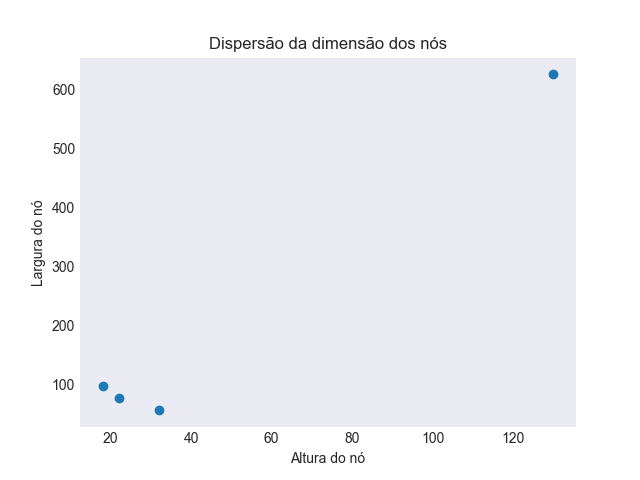
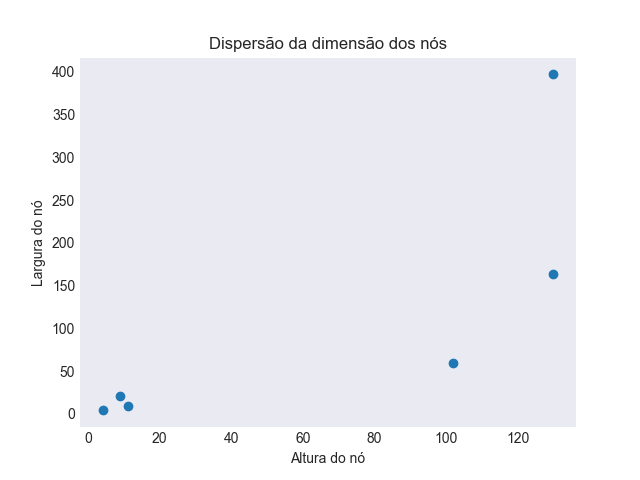
adicionado funcao faz tudo que faz tudo , inclusive o tratamendo de excecao

diff --git a/teste.py b/teste.py
@@ -1,6 +1,5 @@
 import cv2 as cv
-import intermed
-
+import faz_tudo
 import os
 
 f1 = cv.imread('fundo1.png')
@@ -63,30 +62,37 @@ mylist = os.listdir('rolls3/')
 print(mylist)
 
 for nome_arquivo in mylist:
+
     img = cv.imread('rolls3/'+ nome_arquivo)
-    img2 = img[x:x + w, y:y + h]
+    # img2 = img[x:x + w, y:y + h]
+    # try :
+    #     [numero_de_nos,tipo_norma,colorida_bounding_box,pb,g_scatter,g_hist,area_maior_no] = intermed.intermediario(img2)
+    #     cv.imshow('pista', colorida_bounding_box)
+    #     cv.waitKey(1)
+    #
+    # except:
+    #     numero_de_nos = 0
+    #     tipo_norma = 'A'
+    #     area_maior_no = 0
+    #
+    #     cv.imshow('pista', img2)
+    #     cv.waitKey(1)
+    #
+    #
+    #
+    # if(area_maior_no<1000):
+    #     #print("capa do tipo "+ tipo_norma + " com um total de " + str(numero_de_nos)+" nós")
+    #     print("tem chapa do tipo " + tipo_norma + ", tamanho do maior nó = " +  str(area_maior_no))
+    #     cv.imshow('com capa', img2)
+    #     cv.waitKey(0)
 
-    try :
-        [numero_de_nos,tipo_norma,colorida_bounding_box,pb,g_scatter,g_hist,area_maior_no] = intermed.intermediario(img2)
-        cv.imshow('pista', colorida_bounding_box)
-        cv.waitKey(1)
+    [numero_de_nos,tipo_norma,colorida_bounding_box,pb,g_scatter,g_hist,is_chapa] = faz_tudo.fazTudo(img,x,y,w,h)
+    cv.imshow('pista',colorida_bounding_box)
+    cv.waitKey(1)
 
-    except:
-        numero_de_nos = 0
-        tipo_norma = 'A'
-        area_maior_no = 0
-
-        cv.imshow('pista', img2)
-        cv.waitKey(1)
-
-
-
-    if(area_maior_no<1000):
-        #print("capa do tipo "+ tipo_norma + " com um total de " + str(numero_de_nos)+" nós")
-        print("tem chapa do tipo " + tipo_norma + ", tamanho do maior nó = " +  str(area_maior_no))
-        cv.imshow('com capa', img2)
-        cv.waitKey(0)
-
-
-
-cv.waitKey(0)
+    if(is_chapa):
+        cv.imshow('chapa',colorida_bounding_box)
+        cv.imshow('pb',pb)
+        cv.imshow('histograma',g_hist)
+        cv.imshow('scatter',g_scatter)
+        cv.waitKey(100)

diff --git a/principal.py b/principal.py
@@ -1,20 +1,13 @@
 import cv2 as cv
-import openpyxl
-import intermed
+import faz_tudo
 
-
-
-limiar_area = 10000
-
+limiar_area = 1000
 
 # regioes de corte
 x = 350
 y = 0
 w = 150
 h = 625
-
-
-
 
 webcam = cv.VideoCapture(0)
 tempo_entre_frames = 3
@@ -24,27 +17,16 @@ if webcam.isOpened():
 
 while validacao: # aqui ocorre toda execução do programa principal
         validacao,frame = webcam.read() # imagens da webcam são colocadas na variável frame, a cada instante, gerando o vídeo
-        frame = frame[x:x + w, y:y + h]
-        [numero_de_nos, tipo_norma, colorida_bounding_box, pb, g_scatter, g_hist,area_maior_no] = intermed.intermediario(frame)
-        # if area_maior_no > limiar_area:
-        #         cv.imshow('Identificacao', colorida_bounding_box)
-        #         cv.waitKey(1)
-        #         cv.imshow('pb', pb)
-        #         cv.waitKey(1)
-        #         cv.imshow('Dispersao', g_scatter)
-        #         cv.waitKey(1)
-        #         cv.imshow('Histograma', g_hist)
-        #         cv.waitKey(1)
 
-        cv.imshow('Identificacao',colorida_bounding_box)
-        cv.waitKey(1)
-        cv.imshow('pb',pb)
-        cv.waitKey(1)
-        # cv.imshow('Dispersao',g_scatter)
-        # cv.waitKey(1)
-        # cv.imshow('Histograma',g_hist)
-
+        [numero_de_nos,tipo_norma,colorida_bounding_box,pb,g_scatter,g_hist,is_chapa] = faz_tudo.fazTudo(frame,x,y,w,h)
+        cv.imshow('pista',colorida_bounding_box)
         cv.waitKey(1)
 
+        if (is_chapa):
+                cv.imshow('chapa',colorida_bounding_box)
+                cv.imshow('pb',pb)
+                cv.imshow('histograma',g_hist)
+                cv.imshow('scatter',g_scatter)
+                cv.waitKey(100)
 
 

diff --git a/classificacao_script.py b/classificacao_script.py
@@ -31,26 +31,25 @@ def classifica(fframe,color):
     # Gerando gráficos
 
 
-    # plt.scatter(stats[:,3],stats[:,2])
-    # plt.xlabel('Altura do nó')
-    # plt.ylabel('Largura do nó')
-    # plt.title('Dispersão da dimensão dos nós')
-    # plt.savefig('scatter.png')
-    # scatter = cv.imread('scatter.png')
-    # plt.close()
+    plt.scatter(stats[:,3],stats[:,2])
+    plt.xlabel('Altura do nó')
+    plt.ylabel('Largura do nó')
+    plt.title('Dispersão da dimensão dos nós')
+    plt.savefig('scatter.png')
+    scatter = cv.imread('scatter.png')
+    plt.close()
 
 
 
-    # plt.hist(stats[:,4])
-    # plt.xlabel('Área do nó')
-    # plt.ylabel('Frequência')
-    # plt.title('Dispersão da dimensão dos nós')
-    # plt.savefig('hist.png')
-    # hist = cv.imread('hist.png')
-    # plt.close()
+    plt.hist(stats[:,4])
+    plt.xlabel('Área do nó')
+    plt.ylabel('Frequência')
+    plt.title('Dispersão da dimensão dos nós')
+    plt.savefig('hist.png')
+    hist = cv.imread('hist.png')
+    plt.close()
 
-    scatter = 0
-    hist = 0
+
 
 
     for rows in stats:

diff --git a/faz_tudo.py b/faz_tudo.py
@@ -1,0 +1,22 @@
+import cv2 as cv
+import intermed
+
+def fazTudo(img_base,x,y,w,h):
+    is_chapa = False
+    img2 = img_base[x:x + w,y:y + h]
+    try:
+        [numero_de_nos,tipo_norma,colorida_bounding_box,pb,g_scatter,g_hist,area_maior_no] = intermed.intermediario(img2)
+
+
+    except:
+        numero_de_nos = 0
+        tipo_norma = 'A'
+        area_maior_no = 0
+
+
+    if (area_maior_no < 1000):
+        # print("capa do tipo "+ tipo_norma + " com um total de " + str(numero_de_nos)+" nós")
+        print("tem chapa do tipo " + tipo_norma + ", tamanho do maior nó = " + str(area_maior_no))
+        is_chapa = True
+
+    return numero_de_nos,tipo_norma,colorida_bounding_box,pb,g_scatter,g_hist,is_chapa
